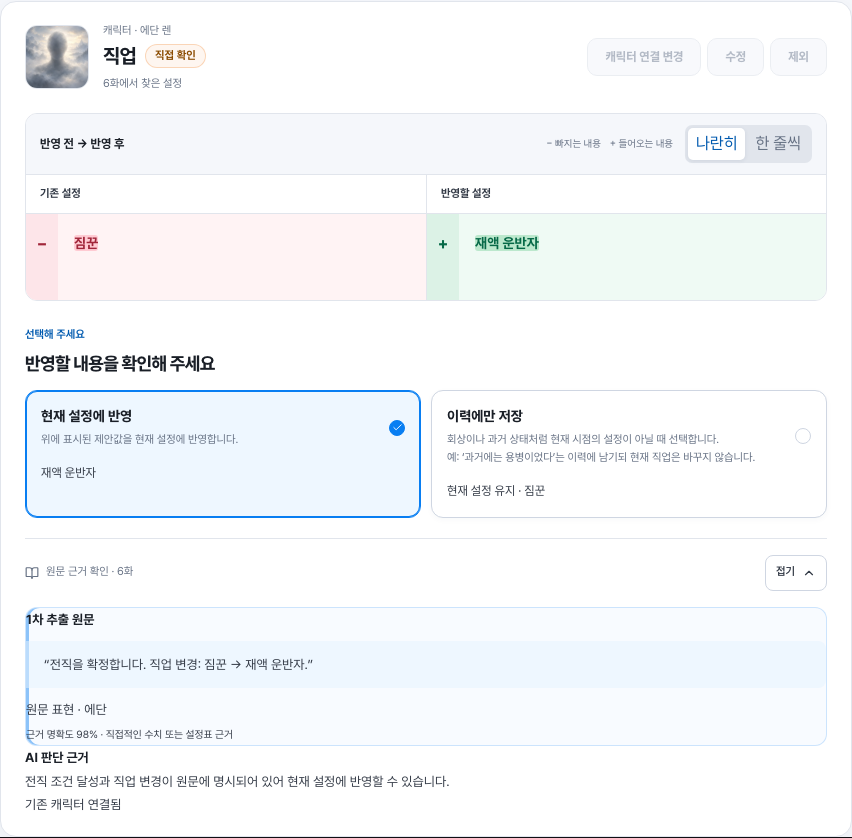
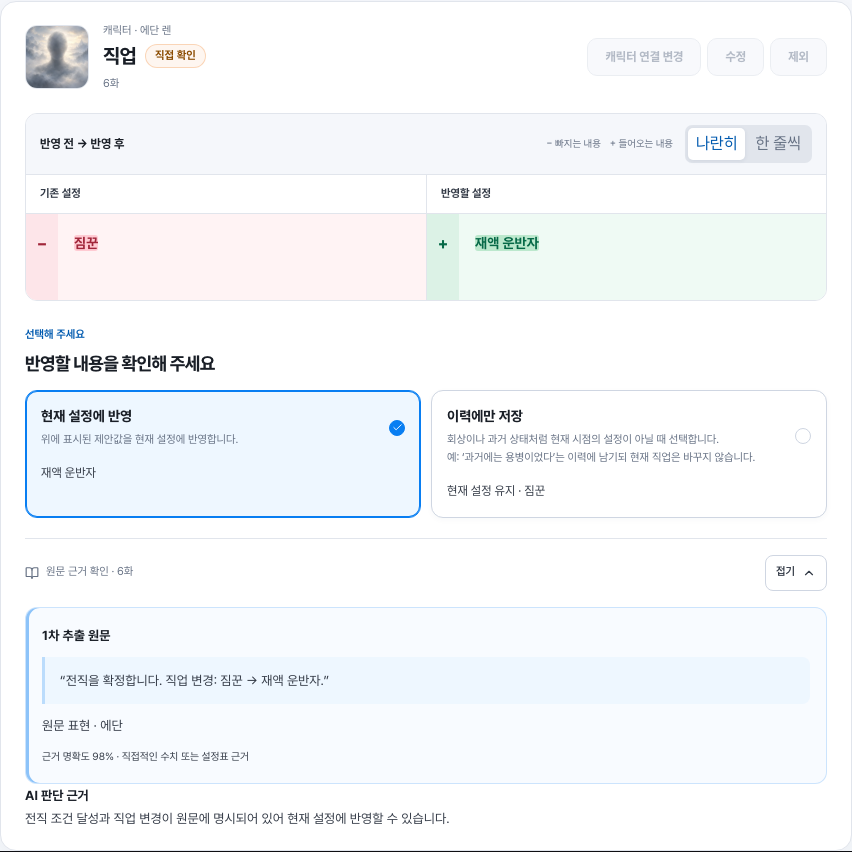
chore(landing): 랜딩 미리보기 이미지를 현재 검토 화면으로 다시 찍는다
opt-in landing-assets 시나리오로 현재 /demo에서 다시 캡처했다(파일명 유지).

- product-review·product-review-mobile: 근거 끝의 연결 상태 줄 생략(#211 3차), 회차 표기 `6화`,
  원문 근거 상자 여백
- product-world: 이력 안내 `설정 후보 확정과 직접 입력으로 갱신됨`
- manuscript·character·timeline은 바뀌지 않아 그대로 둔다

Refs: catchhole-soma/catchhole-backend-java#211

diff --git a/src/assets/landing/README.md b/src/assets/landing/README.md
@@ -28,6 +28,8 @@
 
 갱신: `CATCHHOLE_CAPTURE_LANDING=1 CATCHHOLE_E2E_PORT=3102 npm run test:e2e -- e2e/landing-assets.spec.ts --workers=1`. 이 opt-in 시나리오는 기존 `/demo`의 버튼을 순서대로 누르고 현재 컴포넌트를 캡처한다. 캡처 동안 안내 코치마크·가이드 윤곽선·고정 헤더만 숨기며 제품 데이터나 화면 레이아웃을 합성하지 않는다. 기능 화면이 변경되면 이 캡처를 다시 생성하고 랜딩의 데스크톱·모바일 구도를 검증한다.
 
+2026-10-31 #211 후속 반영 뒤 같은 파일명으로 다시 캡처했다. `product-review`·`product-review-mobile`은 근거 끝의 연결 상태 줄 생략(#211 3차), 제목 아래 회차 표기 `6화`, 원문 근거 상자 여백이, `product-world`는 이력 안내 `설정 후보 확정과 직접 입력으로 갱신됨`(설정집 출처 반영)이 바뀌었다. `product-manuscript`·`product-character`·`product-timeline`은 그대로다. 확정 버튼(`모두 확정`)은 캡처 범위 밖이다. 1440·390px 랜딩에서 구도와 가로 넘침 없음을 확인했다.
+
 참고: [Craft](https://www.craft.do/ko) 작성 섹션, [Linear](https://linear.app/) Planning and monitoring 섹션. 해당 사이트의 자산을 복제하지 않았다.
 
 ## Public demo completion — 2026-10-12
